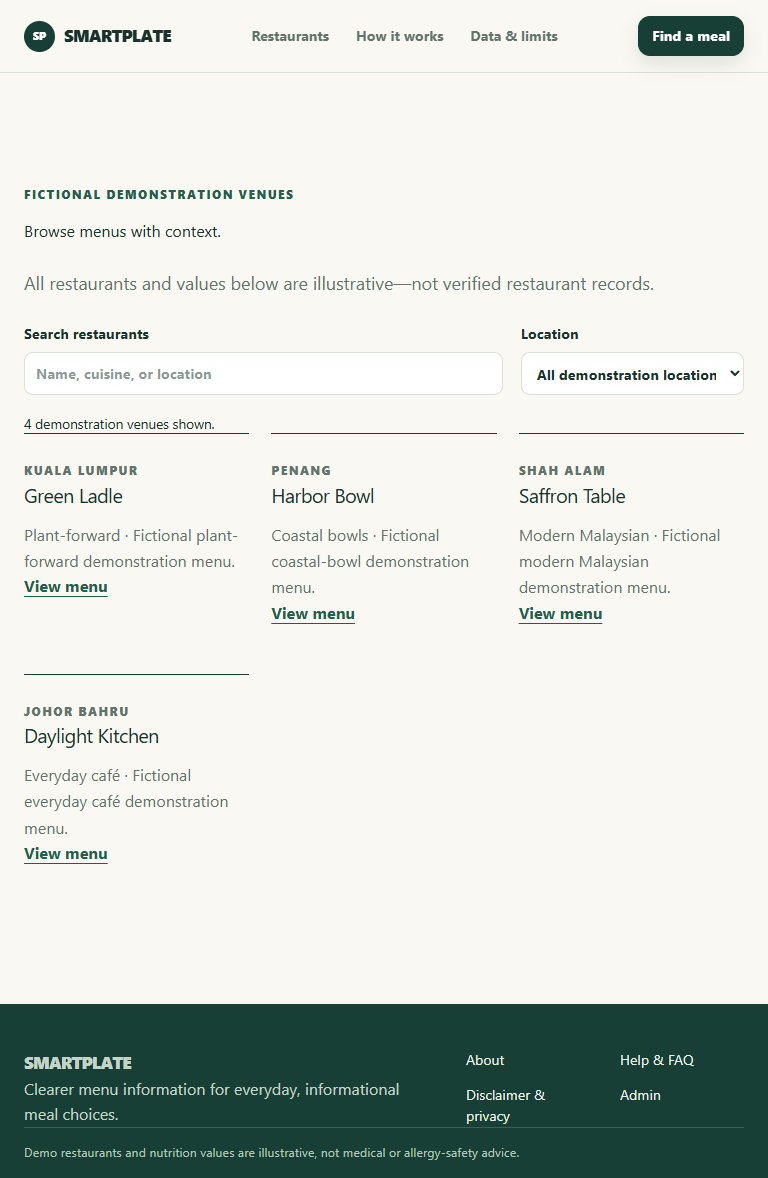
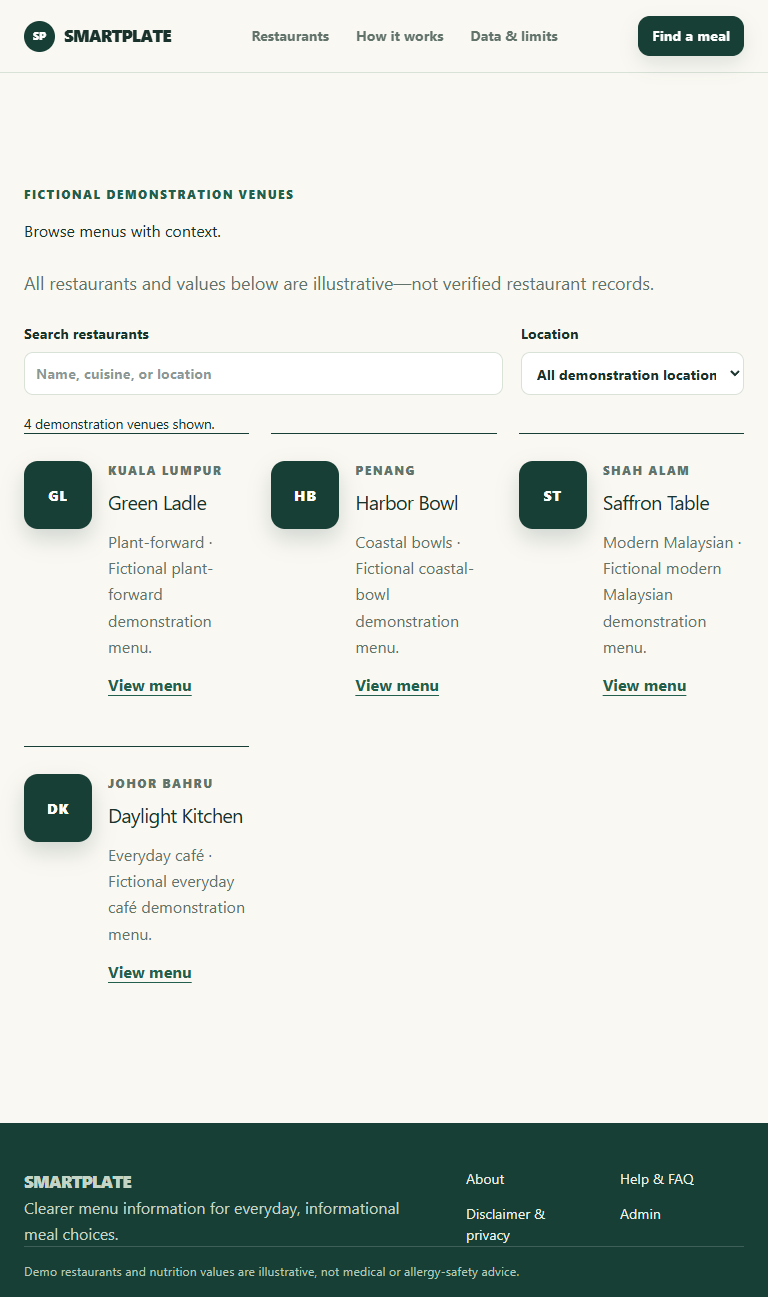
feat(directory): add accessible venue fallbacks

diff --git a/src/components/restaurant-directory.tsx b/src/components/restaurant-directory.tsx
@@ -4,6 +4,26 @@ import Link from "next/link";
 import { useMemo, useState } from "react";
 import type { PublicRestaurant } from "@/lib/public-catalog";
 
+function venueMonogram(name: string) {
+  return name
+    .split(/\s+/)
+    .filter(Boolean)
+    .slice(0, 2)
+    .map((word) => word[0])
+    .join("")
+    .toUpperCase();
+}
+
+function RestaurantVisual({ restaurant }: { restaurant: PublicRestaurant }) {
+  const fallbackLabel = `${restaurant.name} venue placeholder`;
+
+  return (
+    <div aria-label={fallbackLabel} className="restaurant-visual restaurant-fallback" role="img">
+      <span aria-hidden="true">{venueMonogram(restaurant.name)}</span>
+    </div>
+  );
+}
+
 export function RestaurantDirectory({
   restaurants,
   isIllustrative,
@@ -57,15 +77,18 @@ export function RestaurantDirectory({
       {results.length ? (
         <div className="feature-grid">
           {results.map((restaurant) => (
-            <article key={restaurant.slug}>
-              <p className="state-label">{restaurant.location}</p>
-              <h3>{restaurant.name}</h3>
-              <p>
-                {restaurant.cuisine} · {restaurant.description}
-              </p>
-              <Link className="text-link" href={`/restaurants/${restaurant.slug}`}>
-                View menu
-              </Link>
+            <article className="restaurant-card" key={restaurant.slug}>
+              <RestaurantVisual restaurant={restaurant} />
+              <div className="restaurant-card-copy">
+                <p className="state-label">{restaurant.location}</p>
+                <h3>{restaurant.name}</h3>
+                <p>
+                  {restaurant.cuisine} · {restaurant.description}
+                </p>
+                <Link className="text-link" href={`/restaurants/${restaurant.slug}`}>
+                  View menu
+                </Link>
+              </div>
             </article>
           ))}
         </div>

diff --git a/src/app/globals.css b/src/app/globals.css
@@ -8,7 +8,7 @@
   --muted: #61736b;
   --line: #d9e2d7;
   --focus: #bb5b3f;
-  font-family: Inter, ui-sans-serif, system-ui, sans-serif;
+  font-family: Aptos, "Segoe UI", ui-sans-serif, system-ui, sans-serif;
 }
 * {
   box-sizing: border-box;
@@ -233,6 +233,38 @@ button:focus-visible {
   color: var(--muted);
   line-height: 1.65;
   margin: 0;
+}
+.restaurant-card {
+  display: grid;
+  grid-template-columns: 68px minmax(0, 1fr);
+  gap: 16px;
+  align-items: start;
+}
+.restaurant-visual {
+  width: 68px;
+  aspect-ratio: 1;
+  border-radius: 14px;
+  object-fit: cover;
+}
+.restaurant-fallback {
+  display: grid;
+  place-items: center;
+  background: var(--forest);
+  box-shadow: 0 10px 22px rgb(23 63 53 / 18%);
+  color: #fff;
+  font-size: 0.9rem;
+  font-weight: 850;
+  letter-spacing: 0.04em;
+}
+.restaurant-card-copy {
+  min-width: 0;
+}
+.restaurant-card-copy .state-label {
+  margin-bottom: 7px;
+}
+.restaurant-card-copy .text-link {
+  display: inline-block;
+  margin-top: 13px;
 }
 .feature-card label {
   display: grid;

diff --git a/src/lib/public-catalog.ts b/src/lib/public-catalog.ts
@@ -6,6 +6,7 @@ export type PublicRestaurant = {
   cuisine: string;
   location: string;
   description: string;
+  imageUrl?: string | null;
 };
 export type CatalogSource = "ILLUSTRATIVE_FALLBACK" | "DATABASE" | "DATABASE_UNAVAILABLE";
 export type PublicCatalog = {
@@ -55,6 +56,7 @@ export async function getPublicCatalog(): Promise<PublicCatalog> {
       cuisine: restaurant.cuisine,
       location: restaurant.location,
       description: restaurant.description,
+      imageUrl: restaurant.imageUrl,
     }));
     const items: DemoItem[] = restaurants.flatMap((restaurant) =>
       restaurant.items.map((item) => ({

diff --git a/tests/e2e/public.spec.ts b/tests/e2e/public.spec.ts
@@ -103,6 +103,7 @@ test("admin APIs reject unauthenticated reads and mutations", async ({ request }
 
 test("restaurant search has a truthful empty state", async ({ page }) => {
   await page.goto("/restaurants");
+  await expect(page.getByRole("img", { name: "Green Ladle venue placeholder" })).toBeVisible();
   await page.getByLabel(/search restaurants/i).fill("no-such-venue");
   await expect(
     page.getByRole("heading", { name: /no (demonstration )?venues match/i }),

diff --git a/docs/release-evidence.md b/docs/release-evidence.md
@@ -9,7 +9,7 @@ not a claim of university acceptance or a production release.
 | --- | ------------------------------------------------------------------------------------------------------------- | -------------------------------- | ----------------------------------------------------------------------------------------------------------------------------------------------------------------------------------------------------- |
 | 04  | Four fictional restaurants and 48 illustrative dishes; idempotent Prisma seed                                 | Verified in CI                   | `336ec44`, `91f566a`; CI #32 ran migration, seed twice, and a 4/4/48/48 PostgreSQL count assertion                                                                                                    |
 | 05  | Responsive landing and shared navigation                                                                      | Verified (public UI)             | `5f5330d`; Playwright responsive evidence                                                                                                                                                             |
-| 06  | Searchable bounded restaurant directory and empty state                                                       | Partial (CI database verified)   | `e5d8785`; CI run #43 verified the PostgreSQL-backed published directory has 4 restaurants; no live hosted DB acceptance yet                                                                          |
+| 06  | Searchable bounded restaurant directory and empty state                                                       | Partial (CI database verified)   | pending current commit; accessible original fallback art has responsive evidence, while CI #43 verified the PostgreSQL-backed published directory has 4 restaurants; no live hosted DB acceptance yet |
 | 07  | Restaurant/menu routes and not-found handling                                                                 | Partial (CI database verified)   | `e5d8785`; CI run #43 verified 48 published menu items and a verified vegan item through the public catalog; no live hosted DB acceptance yet                                                         |
 | 08  | Dish nutrition, source, ingredient/allergen uncertainty and unavailable states                                | Verified (illustrative UI)       | `f3500af`; CI #62 passed the source-provenance unit suite and 33/33 browser checks; reviewed responsive menu-detail captures are committed                                                            |
 | 09  | Menu search/category/diet/sort filters and empty/reset states                                                 | Verified (illustrative UI)       | `46a09c6`; Playwright 24/24 latest suite                                                                                                                                                              |

diff --git a/docs/testing.md b/docs/testing.md
@@ -6,7 +6,7 @@
 - `npm run typecheck` completes under strict TypeScript.
 - `npm run db:generate` generated Prisma Client 7.10.0 from the committed schema and migration baseline without a database connection.
 - `npm test` contains 27 deterministic Vitest checks for health, illustrative/public catalog data, recommendation eligibility/ranking, preference validation, admin validation/disclosure/category lifecycle defaults, password verification, mutation-origin behaviour, rate limiting, admin-summary completeness, and sign-out success/failure recovery. The provenance validator additionally requires a URL, citation and valid review date before non-illustrative nutrition can be saved.
-- `npm run test:e2e` runs eleven production-build Playwright journeys across 375px, 768px and 1440px (33 checks). It covers public discovery, bounded comparison, keyboard skip navigation, crawl metadata, rendered internal-link/image integrity, protected unauthenticated admin API/route access, directory/menu filtering, menu-detail provenance/review context, and the allergy-related unknown-disclosure safety state.
+- `npm run test:e2e` runs eleven production-build Playwright journeys across 375px, 768px and 1440px (33 checks). It covers public discovery, accessible venue-image fallback, bounded comparison, keyboard skip navigation, crawl metadata, rendered internal-link/image integrity, protected unauthenticated admin API/route access, directory/menu filtering, menu-detail provenance/review context, and the allergy-related unknown-disclosure safety state.
 
 ## Configured but awaiting PostgreSQL
 

diff --git a/docs/test-results.md b/docs/test-results.md
@@ -86,5 +86,5 @@
 - `npm run typecheck`: passed.
 - `npm test`: CI #62 passed all 27 deterministic checks, including provenance validation, recommendation safety/ranking, fixed-window mutation limiting, summary completeness, and sign-out recovery.
 - `npm run build`: passed; route compilation includes the protected admin read/mutation and audit handlers.
-- `npm run test:e2e`: passed, 33/33 across 375px, 768px, and 1440px. It includes public discovery, comparison, keyboard navigation, crawl metadata, rendered link integrity, protected no-session admin APIs, filters, menu-detail provenance/review context, and unknown-allergen handling.
+- `npm run test:e2e`: passed, 33/33 across 375px, 768px, and 1440px. It includes public discovery, accessible venue fallback, comparison, keyboard navigation, crawl metadata, rendered link integrity, protected no-session admin APIs, filters, menu-detail provenance/review context, and unknown-allergen handling.
 - Reviewed captures include protected admin and menu detail at all three viewports: `docs/evidence/mobile-375-admin-protected.png`, `docs/evidence/desktop-1440-admin-protected.png`, `docs/evidence/mobile-375-menu-detail.png`, `docs/evidence/tablet-768-menu-detail.png`, and `docs/evidence/desktop-1440-menu-detail.png`. Authenticated admin/database flows remain unverified without a bootstrapped account and PostgreSQL.

diff --git a/docs/implementation-progress.md b/docs/implementation-progress.md
@@ -1,5 +1,12 @@
 # Implementation progress ledger
 
+## CP-06/08/19 — Accessible venue fallback increment
+
+- Timestamp: 2026-10-16 (Asia/Karachi)
+- Implementation: the bounded restaurant directory now presents an original, code-native venue monogram fallback for every record without an approved image asset. The fallback has a meaningful accessible name, preserves the data-model image URL for future approved assets, and avoids presenting stock or unverified food photography as restaurant evidence.
+- Visual QA: reviewed regenerated `docs/evidence/mobile-375-restaurants.png`, `docs/evidence/tablet-768-restaurants.png`, and `docs/evidence/desktop-1440-restaurants.png`. The fallback monograms are readable and aligned at each viewport with no clipping or horizontal overflow.
+- Verification: `npm run lint`, `npm run typecheck`, focused `npx vitest run src/lib/public-catalog.test.ts --maxWorkers=1 --no-file-parallelism` (1 file, 1 passed), `npm run build` (20 routes), Impeccable detector (no findings), and `npm run test:e2e -- --reporter=line` (33 passed at 375px, 768px, and 1440px) passed before commit.
+
 ## CP-08/17/19 — Nutrition provenance and responsive detail increment
 
 - Timestamp: 2026-10-16 (Asia/Karachi)
